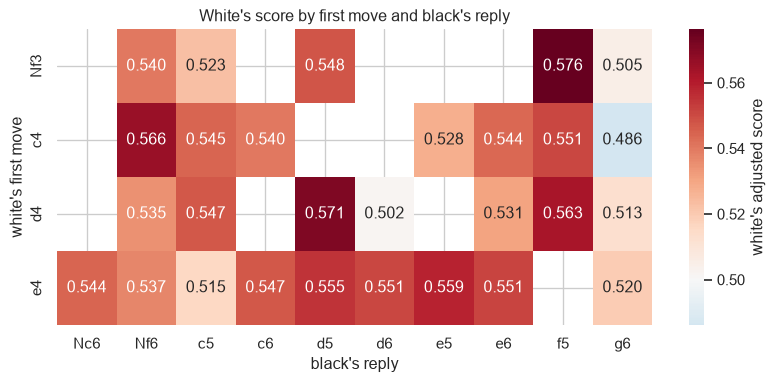
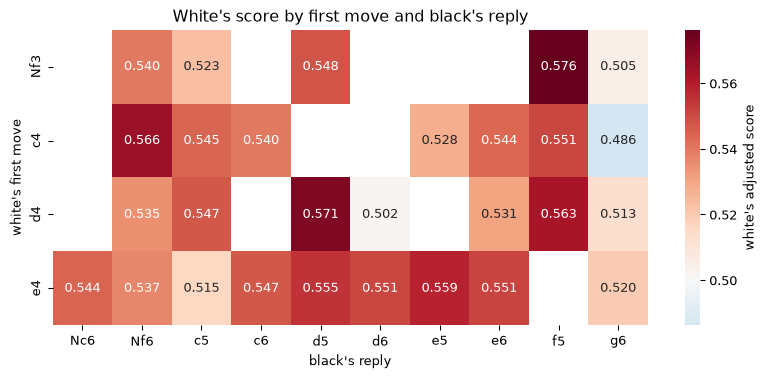
Refactor code structure for improved readability and maintainability

diff --git a/readme.md b/readme.md
@@ -1,5 +1,5 @@
 # Chess Openings Analysis
-
+Benjamin Kim
 
 # Chess openings: which ones actually score well?
 
@@ -9,12 +9,10 @@ I wanted to answer three questions with a table of chess opening lines:
 2.  Do the most popular openings actually do better?
 3.  Does the first move (and black’s reply) matter much?
 
-Each row of `openings.csv` is one opening line (a specific sequence of
-moves) with the number of games played, the win and draw rates, and the
+Each row of `openings.csv` is one opening line, a specific sequence of
+moves, with the number of games played, the win and draw rates, and the
 average rating of the players. Put `openings.csv` in the same folder as
 this notebook.
-
-Libraries: `pip install pandas numpy matplotlib seaborn scipy`
 
 ``` python
 import numpy as np
@@ -22,8 +20,6 @@ import pandas as pd
 import matplotlib.pyplot as plt
 import seaborn as sns
 from scipy import stats
-
-sns.set_theme(style="whitegrid")
 
 df = pd.read_csv("openings.csv")
 print(df.shape)
@@ -58,21 +54,19 @@ df.head()
 
 ## 1. Cleaning and setup
 
-A few things about the data matter for everything below:
-
-- `Colour` is the side that made the **last move** of the line. A
-  “white” row is a line that ends on a white move (like the Scotch Game
-  after 3.d4) and a “black” row ends on a black move (like the Sicilian
-  after 1…c5). I check this below using the move list.
+- `Color` is the side that made the **last move** of the line. A “white”
+  row is a line that ends on a white move (like the Scotch Game after
+  3.d4) and a “black” row ends on a black move (like the Sicilian after
+  1…c5). I check this below using the move list.
 - `Player Win %` and `Draw %` are from the point of view of that side.
 - `Num Games` for a line doesn’t seem to include the games of the longer
-  lines that continue from it (a line often has fewer games than the
-  lines that extend it), so I treat every row as its own group of games.
+  lines that continue from it, so I treat every row as its own group of
+  games.
 
 ``` python
 # drop rows missing the columns I need, then tidy up colour and grab the ECO letter (A to E)
 df = df.dropna(subset=["Num Games", "Avg Player", "Player Win %", "Draw %"])
-df["Colour"] = df["Colour"].str.lower().str.strip()
+df["Color"] = df["Colour"].str.lower().str.strip()
 df["eco_family"] = df["ECO"].str[0]
 
 # take move numbers like "1." off the move columns in case they are there
@@ -91,7 +85,7 @@ print("share of rows where Colour is the side that moved last:", (last_mover == 
 ## 2. Score and rating adjustment
 
 Win rate alone is misleading because draws are common (around 30% of
-games). So I use **score**: a win counts 1, a draw counts 0.5 and a loss
+games). So I use score: a win counts 1, a draw counts 0.5 and a loss
 counts 0. A score above 0.5 is a good result for that side.
 
 Stronger players also score a bit better on average (`Avg Player` is the
@@ -141,27 +135,21 @@ draw.
 ``` python
 big = df[df["Num Games"] >= 500]
 
-fig, axes = plt.subplots(1, 2, figsize=(15, 7))
-
-for ax, colour in zip(axes, ["white", "black"]):
+for colour in ["white", "black"]:
     rows = big[big["Colour"] == colour]
-    best = rows.nlargest(8, "adj_score")
-    worst = rows.nsmallest(8, "adj_score")
-    both = pd.concat([best, worst]).sort_values("adj_score")
+    both = pd.concat([rows.nlargest(8, "adj_score"), rows.nsmallest(8, "adj_score")])
 
-    labels = [name[:50] + " (" + str(round(d * 100)) + "% draws)" for name, d in zip(both["Opening"], both["draw"])]
-    ax.errorbar(both["adj_score"], range(len(both)), xerr=1.96 * both["se"], fmt="o", capsize=3)
-    ax.set_yticks(range(len(both)))
-    ax.set_yticklabels(labels, fontsize=8)
-    ax.axvline(0.5, linestyle="--", color="grey")
-    ax.set_title("Lines ending with a " + colour + " move")
-    ax.set_xlabel("rating-adjusted score (win = 1, draw = 0.5)")
-
-plt.tight_layout()
-plt.show()
+    plt.figure(figsize=(8, 7))
+    sns.barplot(data=both.sort_values("adj_score", ascending=False), x="adj_score", y="Opening", color="steelblue")
+    plt.axvline(0.5, linestyle="--", color="grey")
+    plt.title("Lines ending with a " + colour + " move")
+    plt.xlabel("rating-adjusted score")
+    plt.show()
 ```
 
 ![](readme_files/figure-commonmark/cell-5-output-1.png)
+
+![](readme_files/figure-commonmark/cell-5-output-2.png)
 
 ``` python
 # the same lines as tables, with the raw score next to the adjusted one
@@ -313,13 +301,6 @@ for colour in ["white", "black"]:
 So this is useful for spotting patterns like the Sicilian, but I
 wouldn’t use it to name “the best opening”.
 
-## 4. ECO families
-
-ECO codes group openings into five families: A (flank and irregular
-openings), B (semi-open games like the Sicilian and Caro-Kann), C (open
-games and the French), D (Queen’s Gambit, Slav, Grunfeld) and E (Indian
-defences).
-
 White rows and black rows describe the same thing from opposite sides,
 so I flip everything to **white’s point of view** and combine them. The
 helper function `summarize` does a games-weighted average for any
@@ -327,7 +308,7 @@ grouping, and I reuse it in the later sections.
 
 ``` python
 # put everything from white's point of view so white rows and black rows can be combined
-is_white = df["Colour"] == "white"
+is_white = df["Color"] == "white"
 df["white_adj"] = np.where(is_white, df["adj_score"], 1 - df["adj_score"])
 df["white_win"] = np.where(is_white, df["win"], 1 - df["win"] - df["draw"])
 
